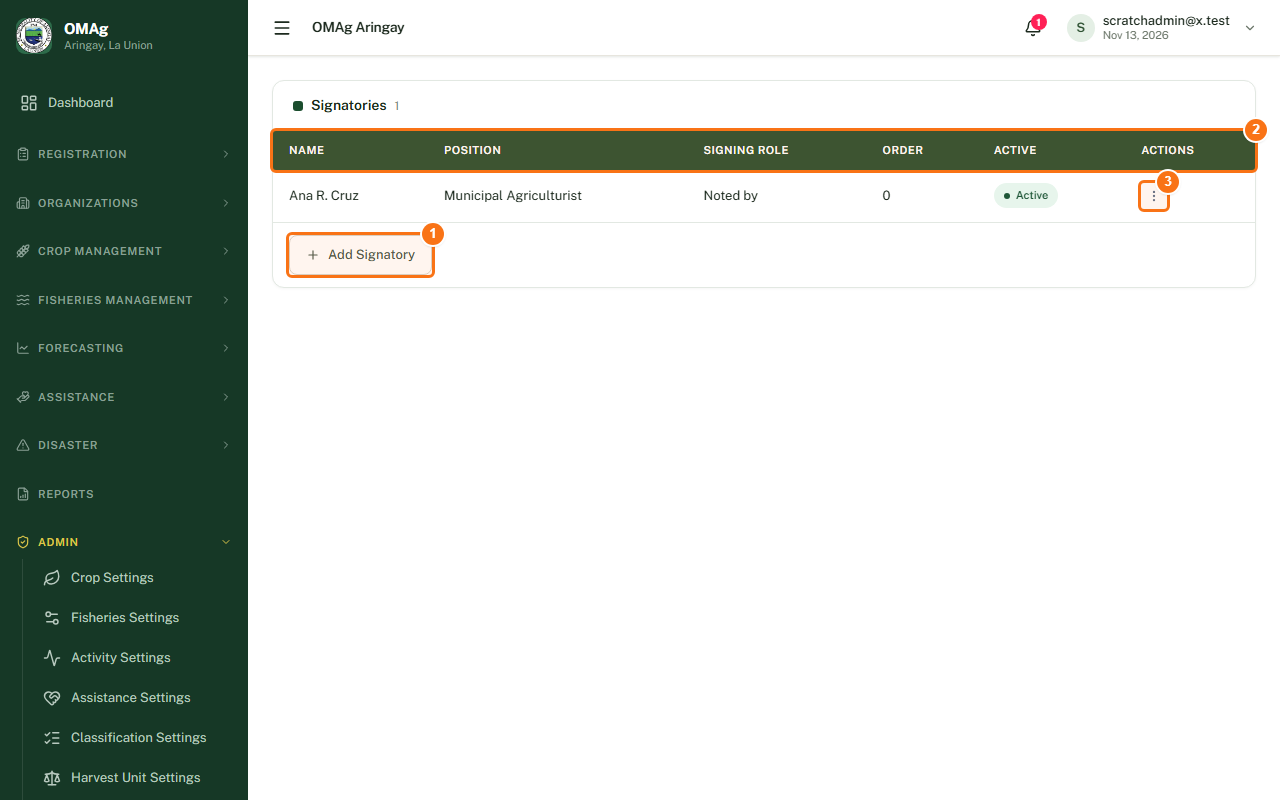
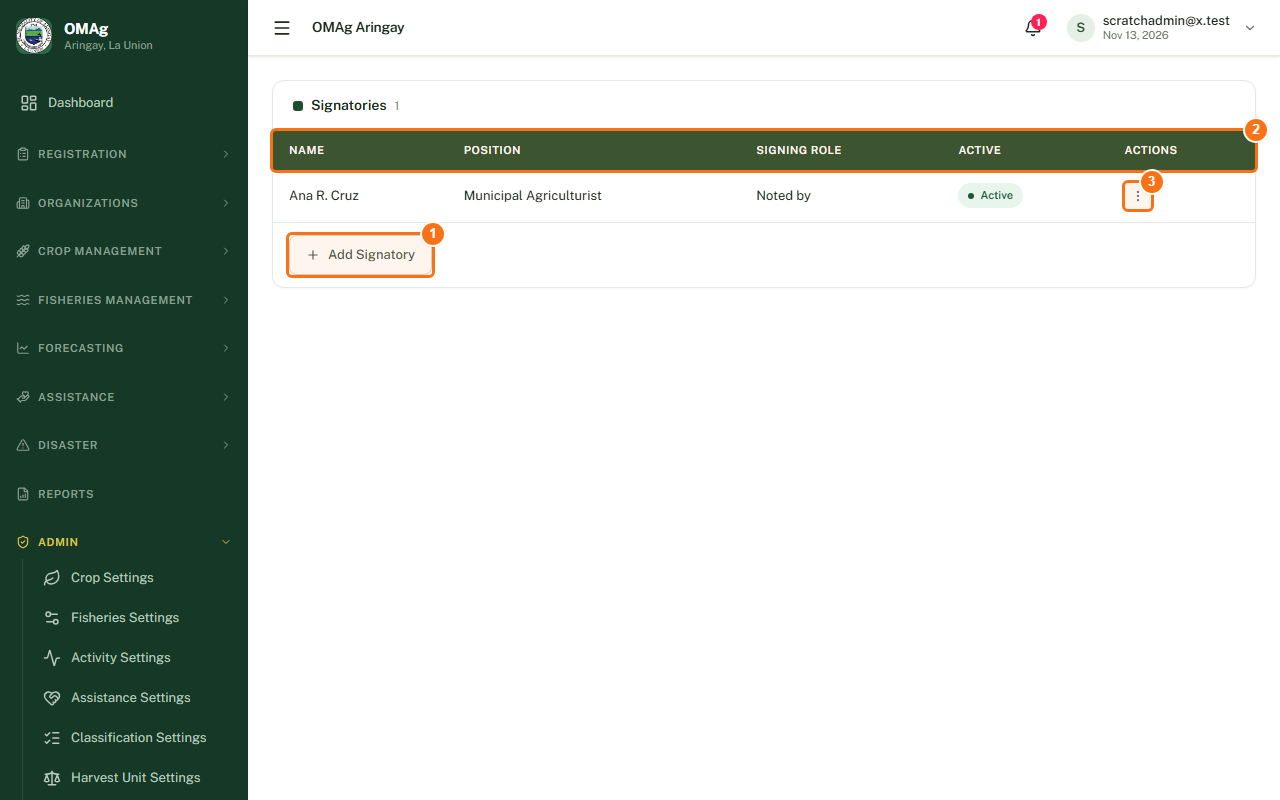
Signatories: remove the Order column and box; a role's names are listed alphabetically

diff --git a/oma-frontend/src/pages/Signatories/SignatoriesPage.jsx b/oma-frontend/src/pages/Signatories/SignatoriesPage.jsx
@@ -19,26 +19,25 @@ import DraftBanner from '../../components/UI/DraftBanner.jsx'
 import useDraftForm, { useDraftField } from '../../hooks/useDraftForm.js'
 
 // Admin > Signatories: the officials the Reports pages offer as Prepared / Checked / Noted / Approved by. One row is one person in one
-// signing role (a person who signs in two roles is added twice). A row that is not Active is no longer offered; Order sorts a role's list.
+// signing role (a person who signs in two roles is added twice). A row that is not Active is no longer offered. A role's names are listed alphabetically.
 // A new signatory is typed in a row of the table (the Add Signatory button is under it), like the other settings tables; Edit opens the form.
 
 const COLUMNS = [
   { key: 'name', label: 'NAME' },
   { key: 'position', label: 'POSITION' },
   { key: 'role', label: 'SIGNING ROLE' },
-  { key: 'sort_order', label: 'ORDER' },
   { key: 'active', label: 'ACTIVE' },
   { key: 'actions', label: 'ACTIONS' },
 ]
 
-const EMPTY = { name: '', position: '', role: 'noted', sort_order: '0', is_active: true }
+const EMPTY = { name: '', position: '', role: 'noted', is_active: true }
 const first = (v) => (Array.isArray(v) ? v[0] : v)
 
 function SignatoryModal({ signatory, onClose, onSaved }) {
   const { showToast } = useToast()
   const isEdit = Boolean(signatory?.id)
   const original = isEdit
-    ? { name: signatory.name, position: signatory.position || '', role: signatory.role, sort_order: String(signatory.sort_order ?? 0), is_active: signatory.is_active }
+    ? { name: signatory.name, position: signatory.position || '', role: signatory.role, is_active: signatory.is_active }
     : EMPTY
   // What is typed is a draft: still here when the form is opened again (see hooks/useDraftForm.js).
   const draft = useDraftForm(`signatory:${signatory?.id ?? 'new'}`)
@@ -52,7 +51,7 @@ function SignatoryModal({ signatory, onClose, onSaved }) {
     e.preventDefault()
     const problem = signatoryError(form)
     if (problem) { setErrors(form.name.trim() ? { role: problem } : { name: problem }); return }
-    const body = { name: form.name.trim(), position: form.position.trim(), role: form.role, sort_order: Number(form.sort_order) || 0, is_active: form.is_active }
+    const body = { name: form.name.trim(), position: form.position.trim(), role: form.role, is_active: form.is_active }
     setIsSubmitting(true)
     try {
       if (isEdit) await api.put(`/reports/signatories/${signatory.id}/`, body)
@@ -62,7 +61,7 @@ function SignatoryModal({ signatory, onClose, onSaved }) {
       onSaved(); onClose()
     } catch (err) {
       const data = err?.response?.data || {}
-      setErrors({ name: first(data.name), role: first(data.role), sort_order: first(data.sort_order), general: first(data.detail) || (Object.keys(data).length ? undefined : 'Failed to save the signatory.') })
+      setErrors({ name: first(data.name), role: first(data.role), general: first(data.detail) || (Object.keys(data).length ? undefined : 'Failed to save the signatory.') })
     } finally {
       setIsSubmitting(false)
     }
@@ -100,10 +99,6 @@ function SignatoryModal({ signatory, onClose, onSaved }) {
             {SIGNATORY_ROLES.map((r) => <option key={r.value} value={r.value}>{r.label}</option>)}
           </select>
         </SettingsField>
-        <SettingsField label="Order" error={errors.sort_order}>
-          <input className={baseInputClasses} type="number" min="0" inputMode="numeric" value={form.sort_order} onChange={(e) => set('sort_order', e.target.value)} />
-          <p className="mt-1 text-[11.5px] text-[#7A8E7A]">Smaller numbers come first in that role's list.</p>
-        </SettingsField>
           <SettingsField label="Active">
             <label className="flex min-h-[40px] items-center gap-2 text-[13px] text-[#1A2B1A]">
               <input type="checkbox" checked={form.is_active} onChange={(e) => set('is_active', e.target.checked)} className="h-4 w-4 accent-[#1B4D2E]" />
@@ -122,7 +117,7 @@ export default function SignatoriesPage() {
   const [isLoading, setIsLoading] = useState(true)
   const [error, setError] = useState('')
   const [editing, setEditing] = useState(null)   // null = closed, a row = editing it
-  const add = useAddRow({ name: '', position: '', role: 'noted', sort_order: '0' }, 'signatory')
+  const add = useAddRow({ name: '', position: '', role: 'noted' }, 'signatory')
   const [deleting, setDeleting] = useState(null)
   const [version, setVersion] = useState(0)
 
@@ -143,13 +138,13 @@ export default function SignatoriesPage() {
     if (problem) { showToast(problem, 'error'); return }
     add.setIsSaving(true)
     try {
-      await api.post('/reports/signatories/', { name: d.name.trim(), position: d.position.trim(), role: d.role, sort_order: Number(d.sort_order) || 0, is_active: true })
+      await api.post('/reports/signatories/', { name: d.name.trim(), position: d.position.trim(), role: d.role, is_active: true })
       showToast('Signatory added.', 'success')
       add.close()
       refresh()
     } catch (err) {
       const data = err?.response?.data || {}
-      showToast(first(data.name) || first(data.role) || first(data.sort_order) || first(data.detail) || 'Failed to save the signatory.', 'error')
+      showToast(first(data.name) || first(data.role) || first(data.detail) || 'Failed to save the signatory.', 'error')
     } finally {
       add.setIsSaving(false)
     }
@@ -160,7 +155,6 @@ export default function SignatoriesPage() {
     name: s.name,
     position: s.position || <span className="text-[#A8BCA8]">—</span>,
     role: roleLabel(s.role),
-    sort_order: s.sort_order,
     active: <StatusPill tone={s.is_active ? 'green' : 'slate'}>{s.is_active ? 'Active' : 'Inactive'}</StatusPill>,
     actions: (
       <RowActions actions={[
@@ -182,8 +176,6 @@ export default function SignatoriesPage() {
           {SIGNATORY_ROLES.map((r) => <option key={r.value} value={r.value}>{r.label}</option>)}
         </DraftSelect>
       ),
-      sort_order: <DraftInput type="number" min="0" inputMode="numeric" value={add.draft.sort_order} aria-label="Order"
-        onChange={(e) => add.change({ sort_order: e.target.value })} onSave={saveDraft} onCancel={add.close} />,
       active: <StatusPill tone="green">Active</StatusPill>,
       actions: <DraftActions onSave={saveDraft} onCancel={add.close} isSaving={add.isSaving} />,
     })

diff --git a/oma-frontend/src/pages/Manual/manualContent.js b/oma-frontend/src/pages/Manual/manualContent.js
@@ -209,7 +209,7 @@ const STAFF_GUIDES = (focal) => [
       'Open Admin > User Management. The buttons at the top choose the kind of account: Staff, Fisherfolk, Farmers or Organizations. Search, or open Filters.',
       'Create User opens Add New User: choose the role, fill in the name and contact details, then Add User. The Actions menu of an account has Edit user and Resend verification email.',
       'Open the Activity Log from the account menu. Filters has the model, the action (Create, Update or Delete) and the date range. Each row says who changed what and when.',
-      'Open Admin > Signatories to keep the names that sign the reports. Add Signatory under the table adds a row at the top of it: type the name, the position printed under it, choose the signing role (Prepared by, Checked by, Noted by or Approved by) and the order, then Save; turn off Active to stop offering a name. The Reports pages offer these names in their Signatories block.',
+      'Open Admin > Signatories to keep the names that sign the reports. Add Signatory under the table adds a row at the top of it: type the name, the position printed under it, choose the signing role (Prepared by, Checked by, Noted by or Approved by), then Save; turn off Active to stop offering a name. The Reports pages offer these names in their Signatories block.',
       'Open Admin > Backup & Restore. The cards show what a backup holds and how many records there are now. Tick Include the audit trail and notification history only when you want the activity log and the notifications in the file too: it makes a much larger, slower backup. Press Download backup, type a name and the Location where you will keep the file (both can be left empty), then Start Backup. A backup is made only when you press this button. While it runs, nothing else can be done on the page: keep it open.',
       'When the backup is done its file (.zip) is saved to your computer and is no longer kept online. Keep it somewhere safe: it holds personal records and is not encrypted. If the file is still shown as waiting, press Download in the row menu.',
       'Backup history keeps every backup with its name, date, time and location; nothing is removed from it. Edit in the row menu changes the name, the location and the remarks.',

diff --git a/oma-frontend/src/pages/Manual/manualScreens.js b/oma-frontend/src/pages/Manual/manualScreens.js
@@ -5032,12 +5032,12 @@ export default {
    {
     "n": 1,
     "label": "Add Signatory",
-    "desc": "Adds a row at the top of the table: type the name and the position printed under it, choose the signing role (Prepared by, Checked by, Noted by or Approved by) and the order, then Save. A person who signs in two roles is added twice."
+    "desc": "Adds a row at the top of the table: type the name and the position printed under it, choose the signing role (Prepared by, Checked by, Noted by or Approved by), then Save. A person who signs in two roles is added twice."
    },
    {
     "n": 2,
     "label": "Columns",
-    "desc": "Name, position, signing role, order and whether the name is Active. The order sorts the names inside their role. A name that is not Active is no longer offered in the Reports pages."
+    "desc": "Name, position, signing role and whether the name is Active. The names of a role are listed alphabetically. A name that is not Active is no longer offered in the Reports pages."
    },
    {
     "n": 3,

diff --git a/oma-frontend/src/pages/Help/helpContent.js b/oma-frontend/src/pages/Help/helpContent.js
@@ -267,7 +267,7 @@ export const SECTIONS = [
       },
       {
         q: 'Where do I keep the names that sign the reports?',
-        a: 'Admin > Signatories. Press Add Signatory under the table, type the name and the position that is printed under it in the new row, choose the signing role (Prepared by, Checked by, Noted by or Approved by) and the order, then press Save. Add a person once for each role they sign in. Turn off Active to stop offering a name without deleting it. These are the names offered in the Signatories block of the Reports pages.',
+        a: 'Admin > Signatories. Press Add Signatory under the table, type the name and the position that is printed under it in the new row, choose the signing role (Prepared by, Checked by, Noted by or Approved by), then press Save. Add a person once for each role they sign in. Turn off Active to stop offering a name without deleting it. These are the names offered in the Signatories block of the Reports pages.',
         roles: ADMIN,
       },
       {

diff --git a/oma_aringay/reports/test_signatories.py b/oma_aringay/reports/test_signatories.py
@@ -19,14 +19,14 @@ class SignatoryApiTests(APITestCase):
         cls.evaluator = User.objects.create_user(username='ev', password='pw', role='EVALUATOR', email='e@x.test')
         cls.citizen = User.objects.create_user(username='cit', password='pw', role='CITIZEN', email='c@x.test')
 
-    def _make(self, name, role='noted', sort_order=0, is_active=True, position=''):
-        return Signatory.objects.create(name=name, role=role, sort_order=sort_order, is_active=is_active, position=position)
+    def _make(self, name, role='noted', is_active=True, position=''):
+        return Signatory.objects.create(name=name, role=role, is_active=is_active, position=position)
 
-    def test_evaluator_and_admin_list_only_active_rows_ordered_by_role_then_sort_order_then_name(self):
+    def test_evaluator_and_admin_list_only_active_rows_ordered_by_role_then_name(self):
         self._make('Zed', 'approved')
-        self._make('Bea', 'noted', sort_order=2)
-        self._make('Abe', 'noted', sort_order=2)
-        self._make('Cy', 'noted', sort_order=1)
+        self._make('Bea', 'noted')
+        self._make('Abe', 'noted')
+        self._make('Cy', 'noted')
         self._make('Dee', 'prepared')
         self._make('Eve', 'checked')
         self._make('Gone', 'noted', is_active=False)
@@ -36,9 +36,9 @@ class SignatoryApiTests(APITestCase):
             self.assertEqual(res.status_code, 200)
             self.assertEqual(
                 [(r['role'], r['name']) for r in res.data],
-                [('prepared', 'Dee'), ('checked', 'Eve'), ('noted', 'Cy'), ('noted', 'Abe'), ('noted', 'Bea'), ('approved', 'Zed')],
+                [('prepared', 'Dee'), ('checked', 'Eve'), ('noted', 'Abe'), ('noted', 'Bea'), ('noted', 'Cy'), ('approved', 'Zed')],
             )
-            self.assertEqual(set(res.data[0]), {'id', 'name', 'position', 'role', 'sort_order', 'is_active'})
+            self.assertEqual(set(res.data[0]), {'id', 'name', 'position', 'role', 'is_active'})
 
     def test_all_flag_returns_inactive_rows_for_admin_but_is_ignored_for_evaluator(self):
         self._make('Here')
@@ -54,7 +54,7 @@ class SignatoryApiTests(APITestCase):
         self.assertEqual(self.client.get(URL).status_code, 403)
 
     def test_only_admin_can_create_edit_and_delete(self):
-        body = {'name': 'Ana Cruz', 'position': 'Municipal Agriculturist', 'role': 'noted', 'sort_order': 1}
+        body = {'name': 'Ana Cruz', 'position': 'Municipal Agriculturist', 'role': 'noted'}
         self.client.force_authenticate(self.evaluator)
         self.assertEqual(self.client.post(URL, body, format='json').status_code, 403)
         row = self._make('Existing')

diff --git a/oma_aringay/reports/signatories.py b/oma_aringay/reports/signatories.py
@@ -20,7 +20,7 @@ class SignatorySerializer(serializers.ModelSerializer):
 
     class Meta:
         model = Signatory
-        fields = ['id', 'name', 'position', 'role', 'sort_order', 'is_active']
+        fields = ['id', 'name', 'position', 'role', 'is_active']
 
 
 class SignatoryList(generics.ListCreateAPIView):
@@ -35,7 +35,7 @@ class SignatoryList(generics.ListCreateAPIView):
         return [IsAuthenticated(), IsAdminOrEvaluator()]
 
     def get_queryset(self):
-        qs = Signatory.objects.annotate(role_order=ROLE_ORDER).order_by('role_order', 'sort_order', 'name')
+        qs = Signatory.objects.annotate(role_order=ROLE_ORDER).order_by('role_order', 'name')
         wants_all = self.request.query_params.get('all') == '1' and self.request.user.role == 'ADMIN'
         return qs if wants_all else qs.filter(is_active=True)
 

diff --git a/oma_aringay/reports/models.py b/oma_aringay/reports/models.py
@@ -14,7 +14,7 @@ class Signatory(models.Model):
     name = models.CharField(max_length=150)
     position = models.CharField(max_length=150, blank=True, default='')
     role = models.CharField(max_length=20, choices=ROLE_CHOICES)
-    sort_order = models.PositiveIntegerField(default=0)
+    sort_order = models.PositiveIntegerField(default=0)    # no longer used: the screens and the API ignore it, names are listed alphabetically inside a role
     is_active = models.BooleanField(default=True)
 
     class Meta:
